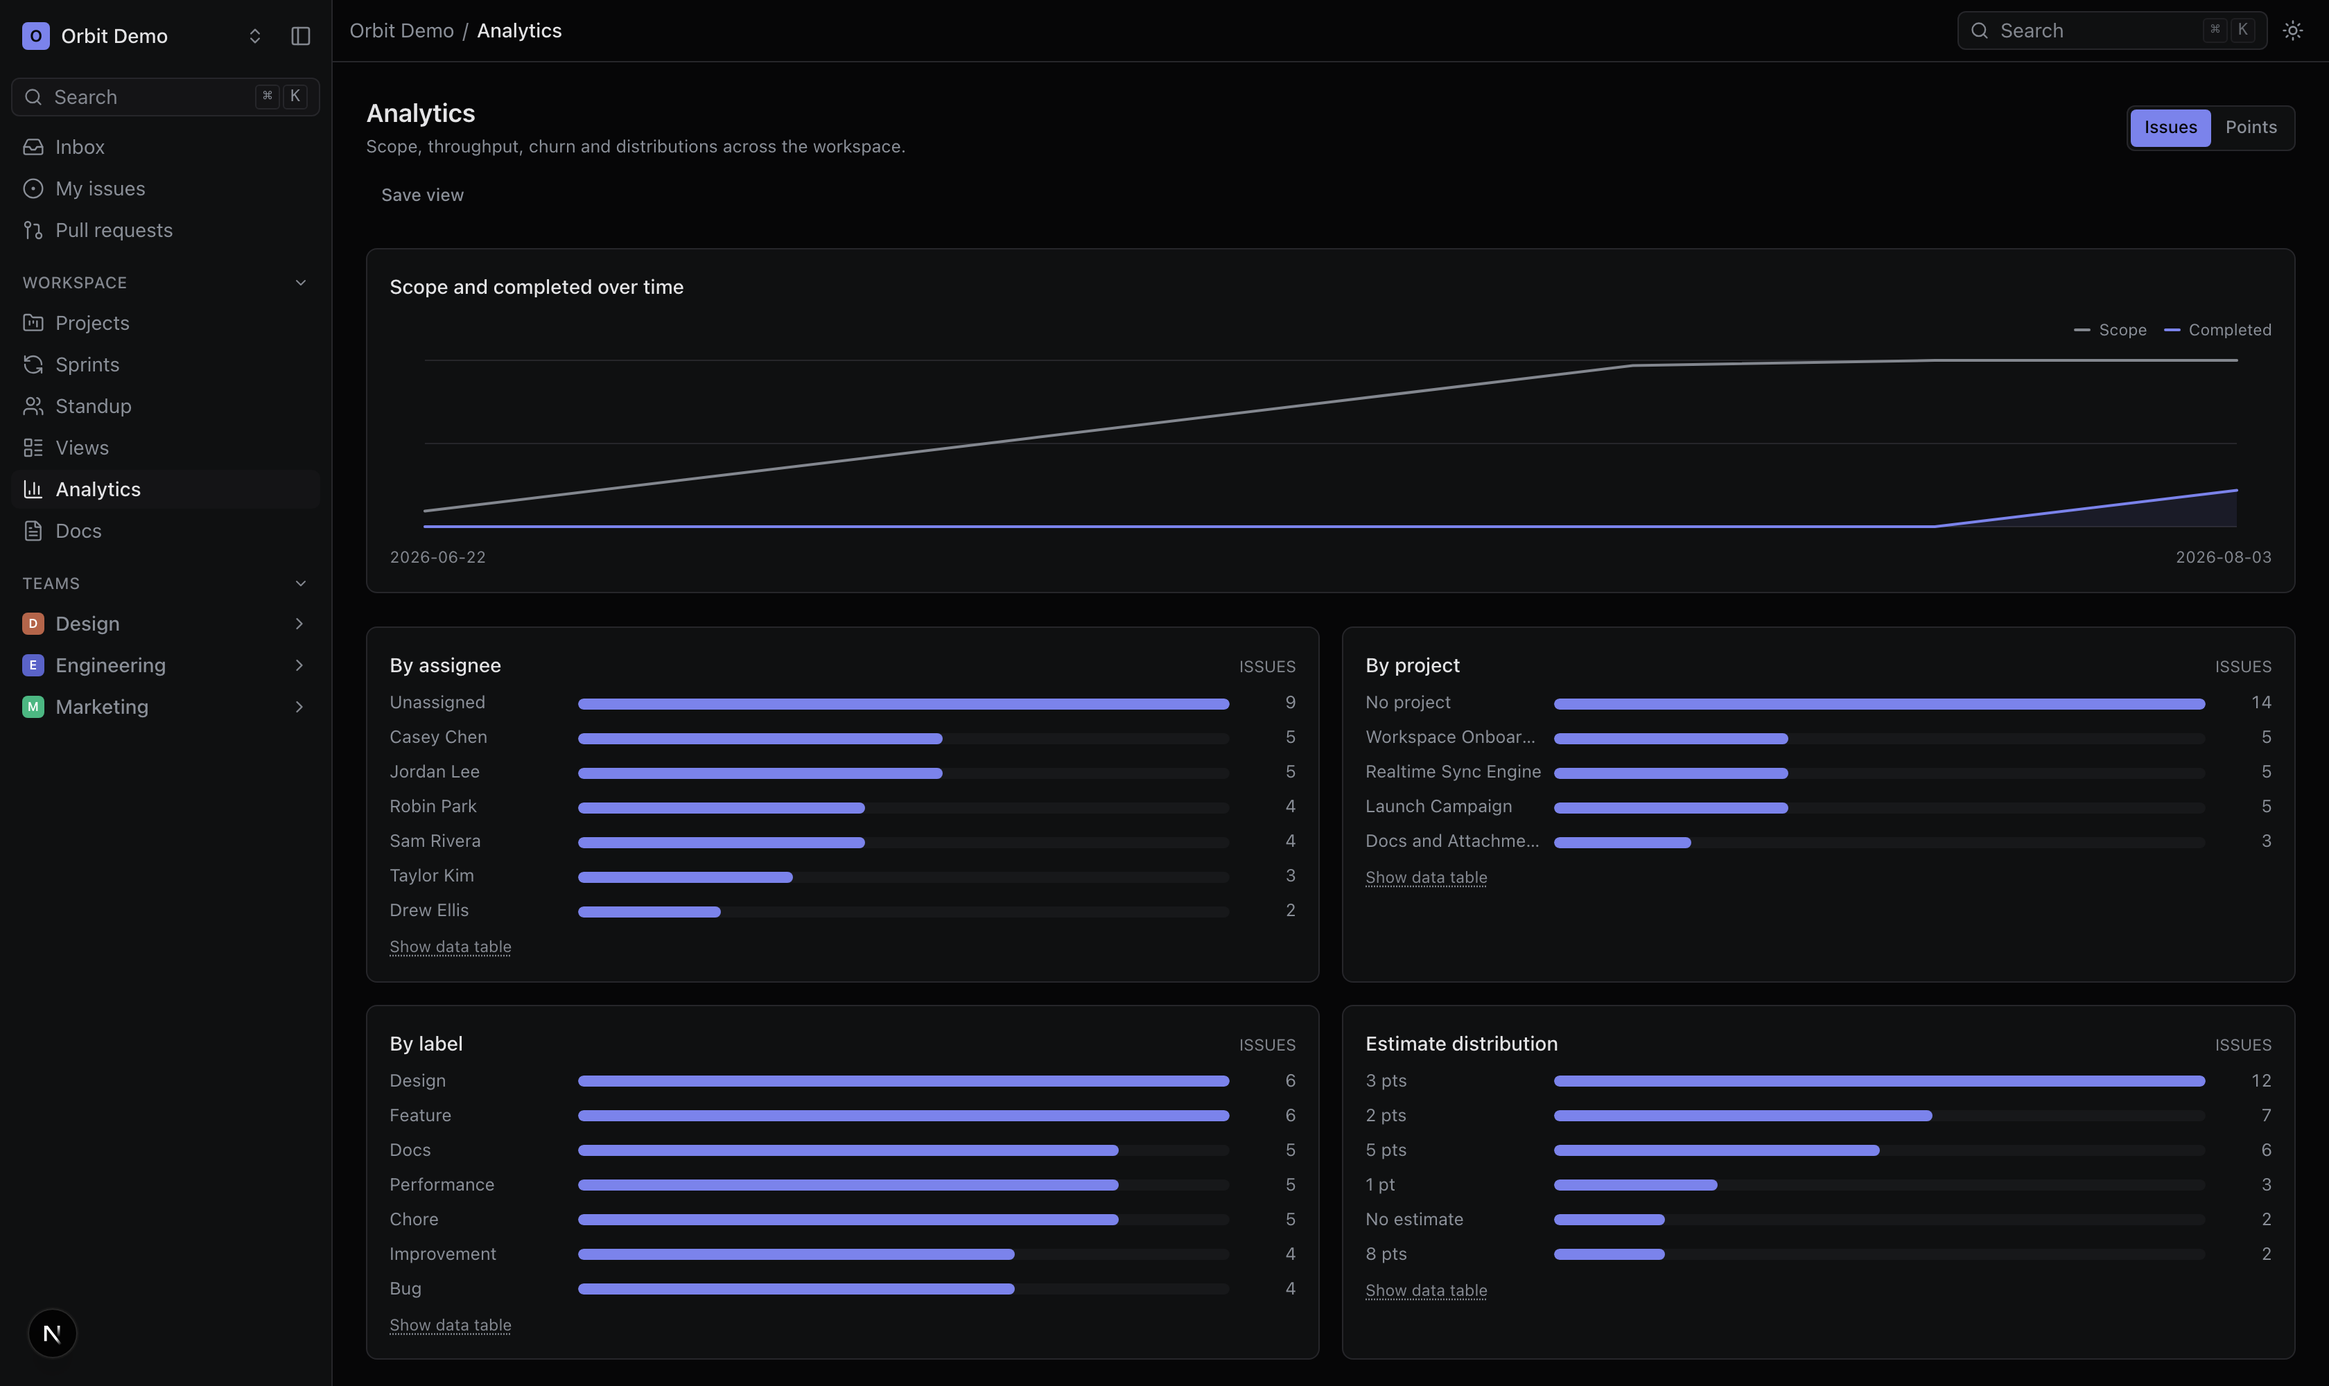
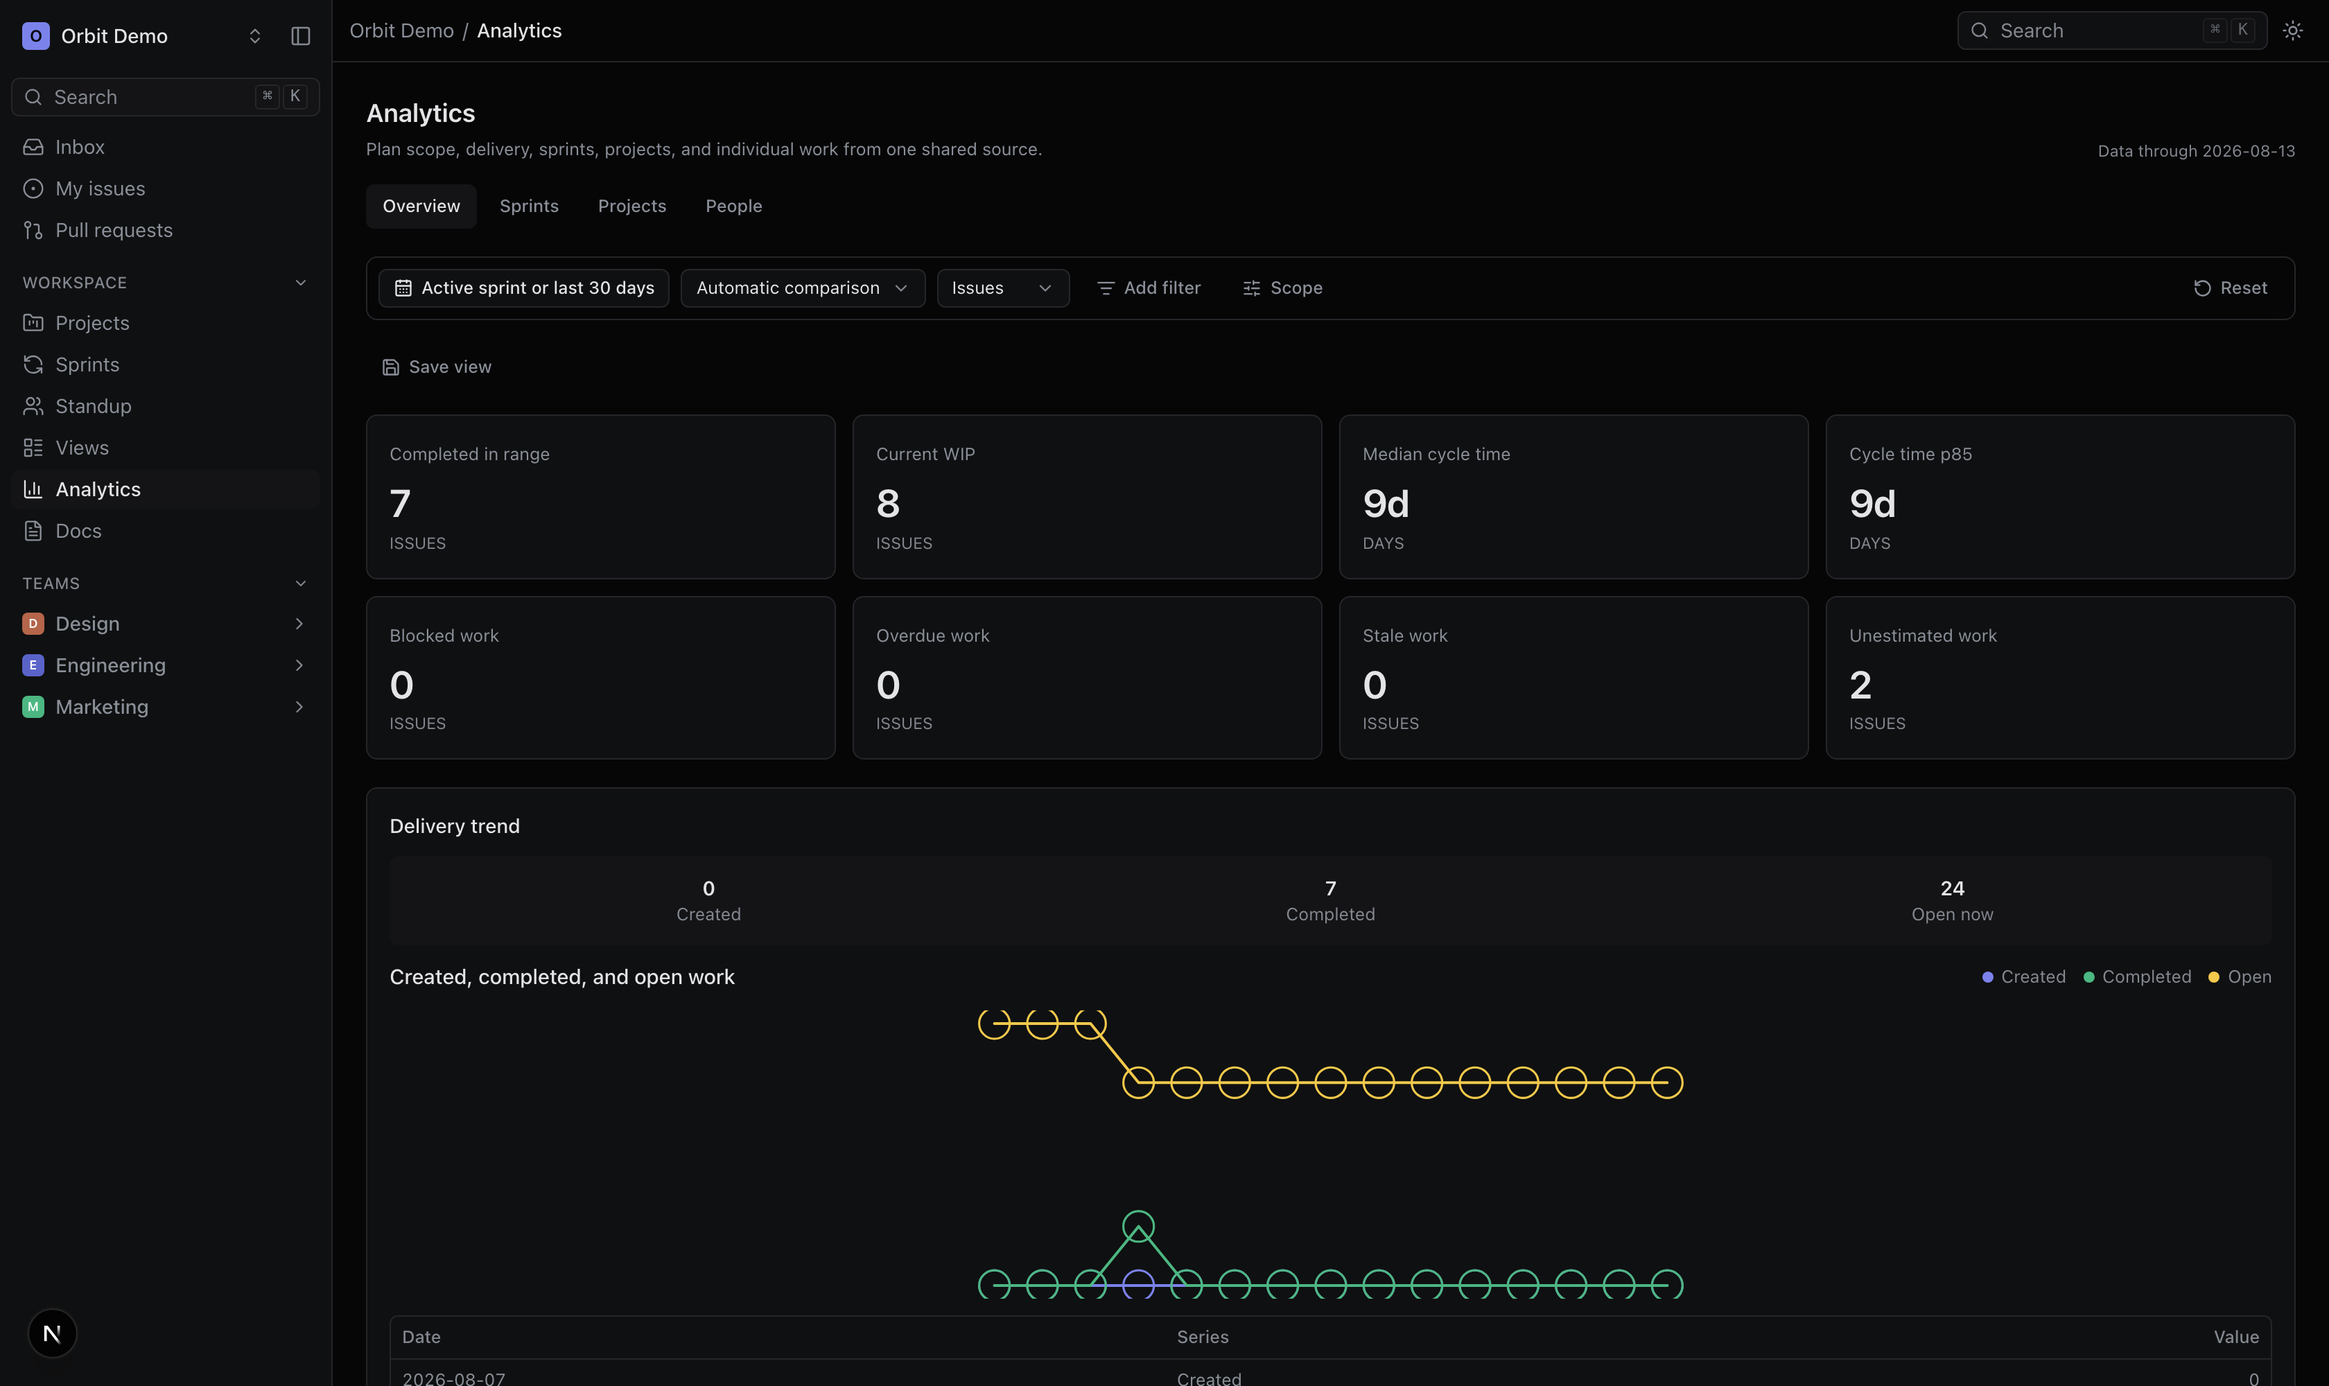
test(analytics): verify planning cockpit

diff --git a/apps/web/e2e/analytics.spec.ts b/apps/web/e2e/analytics.spec.ts
@@ -1,0 +1,155 @@
+import { type BrowserContext, expect, type Page, test } from '@playwright/test';
+import { z } from 'zod';
+import { stateIdByName, teamIdByKey } from './api.ts';
+import { BASE } from './base-url.ts';
+
+const cyclesSchema = z.object({
+  cycles: z.array(z.object({ id: z.string(), completedAt: z.string().nullable() })),
+});
+
+const issueSchema = z.object({ issue: z.object({ id: z.string() }) });
+
+const sprintSummarySchema = z.object({
+  current: z.object({ summary: z.object({ completed: z.number(), remaining: z.number() }) }),
+});
+
+async function json(page: Page, path: string, init?: RequestInit): Promise<unknown> {
+  return await page.evaluate(
+    async ({ url, options }) => {
+      const response = await fetch(url, options as RequestInit);
+      if (!response.ok) throw new Error(`${url} answered ${response.status}`);
+      return (await response.json()) as unknown;
+    },
+    { url: path, options: init ?? {} },
+  );
+}
+
+async function signIn(context: BrowserContext): Promise<Page> {
+  const page = await context.newPage();
+  await page.goto(`${BASE}/login`);
+  await page.getByTestId('dev-sign-in-alex@orbit.example').click();
+  await page.waitForURL(`${BASE}/my-issues`);
+  return page;
+}
+
+test('analytics is useful by default and preserves planning choices on reload', async ({
+  browser,
+}) => {
+  const context = await browser.newContext({ viewport: { width: 1600, height: 1000 } });
+  const page = await signIn(context);
+
+  await page.goto(`${BASE}/analytics`);
+  await expect(page.getByRole('heading', { name: 'Analytics' })).toBeVisible();
+  await expect(page.getByRole('tab', { name: 'Overview' })).toHaveAttribute(
+    'aria-selected',
+    'true',
+  );
+  await expect(page.getByLabel(/Reporting range/)).toContainText('Active sprint');
+
+  await page.getByLabel('Measure').click();
+  await page.getByRole('option', { name: 'Points' }).click();
+  await page.getByLabel(/Reporting range/).click();
+  await page.getByRole('button', { name: 'Last 90 days' }).click();
+  await page.getByRole('tab', { name: 'People' }).click();
+
+  await expect(page).toHaveURL(/lens=people/);
+  await expect(page).toHaveURL(/measure=points/);
+  await expect(page).toHaveURL(/range=last_90_days/);
+  await expect(page.getByText('My work')).toBeVisible();
+  await page.reload();
+  await expect(page.getByRole('tab', { name: 'People' })).toHaveAttribute('aria-selected', 'true');
+  await expect(page.getByLabel('Measure')).toContainText('Points');
+
+  await context.close();
+});
+
+test('analytics and the sprint page share sprint truth and expose exact hover values', async ({
+  browser,
+}) => {
+  const context = await browser.newContext({ viewport: { width: 1600, height: 1000 } });
+  const page = await signIn(context);
+
+  await page.goto(`${BASE}/sprints`);
+  const sprintName = (await page.getByTestId('sprint-name').first().textContent())?.trim();
+  if (sprintName === undefined || sprintName.length === 0) throw new Error('missing sprint name');
+
+  await page.goto(`${BASE}/analytics?lens=sprints`);
+  await expect(page.getByText(sprintName, { exact: true }).first()).toBeVisible();
+  await expect(page.locator('figcaption').getByText('Sprint burn down')).toBeVisible();
+  await expect(page.getByText('Flow time')).toBeVisible();
+  await expect(page.getByText(/Current issue-row creation to durable completion/)).toBeVisible();
+  await expect(page.getByText(/Current mutable startedAt column to completion/)).toBeVisible();
+
+  const point = page.locator('[data-testid^="plot-hit-"]').last();
+  await point.hover({ force: true });
+  await expect(page.getByRole('tooltip')).toBeVisible();
+
+  const chart = page.getByRole('application', { name: 'Sprint burn down' });
+  await chart.focus();
+  await page.keyboard.press('End');
+  await expect(page.getByRole('tooltip')).toBeVisible();
+
+  await context.close();
+});
+
+test('the active sprint burn changes when live work completes', async ({ browser }) => {
+  const context = await browser.newContext({ viewport: { width: 1600, height: 1000 } });
+  const page = await signIn(context);
+  const teamId = await teamIdByKey(page, 'ENG');
+  const todoId = await stateIdByName(page, teamId, 'Todo');
+  const doneId = await stateIdByName(page, teamId, 'Done');
+  const cycles = cyclesSchema.parse(await json(page, '/api/cycles')).cycles;
+  const activeCycle = cycles.find((cycle) => cycle.completedAt === null);
+  if (activeCycle === undefined) throw new Error('missing active sprint');
+  const created = issueSchema.parse(
+    await json(page, '/api/issues', {
+      method: 'POST',
+      headers: { 'content-type': 'application/json' },
+      body: JSON.stringify({
+        teamId,
+        title: `Live burn evidence ${Date.now()}`,
+        stateId: todoId,
+        cycleId: activeCycle.id,
+      }),
+    }),
+  ).issue;
+  const before = sprintSummarySchema.parse(await json(page, '/api/analytics/sprints')).current
+    .summary;
+
+  await json(page, `/api/issues/${created.id}`, {
+    method: 'PATCH',
+    headers: { 'content-type': 'application/json' },
+    body: JSON.stringify({ stateId: doneId }),
+  });
+  const after = sprintSummarySchema.parse(await json(page, '/api/analytics/sprints')).current
+    .summary;
+
+  expect(after.completed).toBe(before.completed + 1);
+  expect(after.remaining).toBe(before.remaining - 1);
+  await context.close();
+});
+
+test('a complete analytics view can be saved, pinned, and restored', async ({ browser }) => {
+  const context = await browser.newContext({ viewport: { width: 1600, height: 1000 } });
+  const page = await signIn(context);
+  const name = `Planning view ${Date.now()}`;
+
+  await page.goto(`${BASE}/analytics?lens=projects&measure=points&range=last_90_days`);
+  await page.getByRole('button', { name: 'Save view' }).click();
+  await page.getByLabel('Analytics view name').fill(name);
+  await page.getByLabel('Share with workspace').check();
+  await page.getByRole('button', { name: 'Save', exact: true }).click();
+  await expect(page.getByRole('button', { name, exact: true })).toBeVisible();
+  await page.getByLabel(`Pin ${name}`).click();
+  await expect(page.getByLabel(`Unpin ${name}`)).toBeVisible();
+
+  await page.goto(`${BASE}/analytics`);
+  await expect(page.getByRole('tab', { name: 'Projects' })).toHaveAttribute(
+    'aria-selected',
+    'true',
+  );
+  await expect(page.getByLabel('Measure')).toContainText('Points');
+  await expect(page.getByLabel(/Reporting range/)).toContainText('Last 90 days');
+
+  await context.close();
+});

diff --git a/apps/web/scripts/capture-screenshots.ts b/apps/web/scripts/capture-screenshots.ts
@@ -7,6 +7,12 @@ const USER = process.env['ORBIT_SHOTS_USER'] ?? 'alex@orbit.example';
 const REPO_ROOT = resolve(import.meta.dirname, '../../..');
 const OUT = resolve(REPO_ROOT, 'docs/assets/screenshots');
 const RELATIVE_OUT = 'docs/assets/screenshots';
+const SHOT_FILTER = new Set(
+  (process.env['ORBIT_SHOTS_FILTER'] ?? '')
+    .split(',')
+    .map((value) => value.trim())
+    .filter((value) => value.length > 0),
+);
 const WIDTH = 1680;
 const HEIGHT = 1000;
 const THEMES = ['light', 'dark'] as const;
@@ -69,6 +75,25 @@ async function firstProjectSlug(page: Page): Promise<string | null> {
   return first['slug'];
 }
 
+async function firstPersonWithWork(page: Page): Promise<string | null> {
+  const body = await readJson(page, '/api/analytics/people?lens=people');
+  if (!(isRecord(body) && Array.isArray(body['people']))) return null;
+  for (const entry of body['people']) {
+    if (!(isRecord(entry) && isRecord(entry['person']))) continue;
+    const assignments = entry['currentAssignments'];
+    const completions = entry['completedIssues'];
+    const id = entry['person']['id'];
+    if (
+      typeof id === 'string' &&
+      ((typeof assignments === 'number' && assignments > 0) ||
+        (typeof completions === 'number' && completions > 0))
+    ) {
+      return id;
+    }
+  }
+  return null;
+}
+
 async function firstIssueIdentifier(page: Page, teamKey: string): Promise<string | null> {
   const body = await readJson(page, `/api/issues?teamKey=${teamKey}&limit=20`);
   if (!(isRecord(body) && Array.isArray(body['issues']))) return null;
@@ -80,12 +105,52 @@ async function firstIssueIdentifier(page: Page, teamKey: string): Promise<string
 }
 
 async function buildShots(page: Page): Promise<Shot[]> {
+  const personId = await firstPersonWithWork(page);
   const shots: Shot[] = [
     { name: 'board', path: '/team/ENG/board', caption: 'Board' },
     { name: 'issues', path: '/team/ENG/issues', caption: 'Issue list' },
     { name: 'sprints', path: '/sprints', caption: 'Sprints' },
     { name: 'standup', path: '/standup', caption: 'Standup' },
     { name: 'analytics', path: '/analytics', caption: 'Analytics', settleMs: 1800 },
+    {
+      name: 'analytics-sprints',
+      path: '/analytics?lens=sprints',
+      caption: 'Analytics sprint planning',
+      settleMs: 1800,
+    },
+    {
+      name: 'analytics-people',
+      path:
+        personId === null
+          ? '/analytics?lens=people'
+          : `/analytics?lens=people&personId=${personId}`,
+      caption: 'Analytics personal planning',
+      settleMs: 1800,
+    },
+    {
+      name: 'analytics-hover',
+      path: '/analytics?lens=sprints',
+      caption: 'Analytics exact chart value',
+      settleMs: 1800,
+      act: async (target) => {
+        const point = target.locator('[data-testid^="plot-hit-"]').last();
+        await point.hover({ force: true });
+        await target.getByRole('tooltip').waitFor();
+      },
+    },
+    {
+      name: 'analytics-filters',
+      path: '/analytics',
+      caption: 'Analytics advanced filters',
+      settleMs: 1800,
+      act: async (target) => {
+        await target.getByRole('button', { name: 'Add filter' }).click();
+        await target.getByTestId('filter-field-project').click();
+        await target.locator('[data-testid^="filter-value-"]').first().click();
+        await target.keyboard.press('Escape');
+        await target.getByRole('button', { name: 'Scope' }).click();
+      },
+    },
     { name: 'projects', path: '/projects', caption: 'Projects' },
     { name: 'inbox', path: '/inbox', caption: 'Inbox' },
     { name: 'my-issues', path: '/my-issues', caption: 'My issues' },
@@ -182,7 +247,9 @@ async function main(): Promise<void> {
   const setupContext = await openContext(browser, 'light');
   const setupPage = await setupContext.newPage();
   await signIn(setupPage);
-  const shots = await buildShots(setupPage);
+  const allShots = await buildShots(setupPage);
+  const shots =
+    SHOT_FILTER.size === 0 ? allShots : allShots.filter((shot) => SHOT_FILTER.has(shot.name));
   await setupContext.close();
 
   console.log(`Capturing ${shots.length} screens in ${THEMES.length} themes from ${BASE}`);

diff --git a/.superpowers/sdd/2026-08-11-analytics-planning-cockpit/task-17-report.md b/.superpowers/sdd/2026-08-11-analytics-planning-cockpit/task-17-report.md
@@ -1,0 +1,42 @@
+# Task 17 report
+
+## Outcome
+
+The analytics planning cockpit is verified end to end against a disposable current-schema database. The zero-configuration Analytics page, URL persistence, exact mouse and keyboard chart evidence, shared sprint truth, live burndown movement, and complete saved-view restoration all have browser coverage. The Sprint page Insights tab consumes the same sprint analytics service as the Analytics sprint lens.
+
+The screenshot harness now captures Overview, Sprint, People, advanced-filter, and exact-hover states in both light and dark themes. The People capture selects a person with visible work so the review artifact shows assignments, completion throughput, work in progress, cycle time, lead time, WIP age, and personal sprint burn rather than an empty profile.
+
+The branch includes the latest `origin/main` through a clean merge.
+
+## Browser evidence
+
+- Analytics loads a useful Overview with Active sprint selected on a clean URL.
+- Lens, measure, and reporting-range changes survive a browser reload.
+- Analytics and Sprint Insights show the same selected sprint and burn series.
+- Mouse hover and keyboard focus expose exact chart values through an accessible tooltip.
+- Completing a real active-sprint issue increases completed work by one and reduces remaining work by one through `/api/analytics/sprints`.
+- A Projects, Points, Last 90 days query can be saved, shared, pinned, and restored from a clean Analytics URL.
+- The four browser scenarios passed in the dedicated Playwright database.
+
+## Formula semantics
+
+- Lead time is the current issue-row `createdAt` to durable `completedAt` interval. Missing and negative intervals are excluded. Deleted issue rows cannot contribute to this current-row metric.
+- Cycle time is the current mutable `startedAt` to durable completion interval. Completed sprint history labels this as reconstructed from the current column because close outcomes do not freeze the first-start timestamp.
+- People percentiles use valid completions attributed to the person at completion. WIP age is the current state-entry timestamp to the resolved data-through timestamp.
+- Sprint scope and churn use durable membership intervals. Active completion is derived through the reporting day, so it moves between scheduled snapshots. Completed sprints prefer frozen close outcomes and final snapshots.
+- Legacy observed sprint membership can honestly report no planned scope when captured start facts do not exist. Coverage metadata exposes that limitation rather than inventing a committed baseline.
+
+## Verification
+
+- Production build passed: Next.js compiled, typechecked, generated 103 pages, and produced the standalone bundle.
+- Database drift check passed against the disposable current-schema database.
+- Full Core passed after the latest `main` merge: 916 tests, 0 failures, 2,528 assertions across 64 files.
+- Full Web passed: 2,031 tests, 0 failures, 5,096 assertions across 257 files.
+- The final root verification passed lint, comment policy, source-byte policy, Bun-import policy, dependency checks, and every package typecheck.
+- The root parallel test process encountered the repository-known `packages/db` catchup cleanup-hook timeout at exactly 30 seconds. The affected file passed alone immediately afterward: 10 tests, 0 failures, 18 assertions in 321 ms.
+- Earlier task gates on this final feature chain include Web 2,028/2,028 before the latest `main` merge; the final totals above include the merged tests.
+- Representative query plans recorded during implementation remained bounded: sprint membership 0.321 ms, overview distributions 0.377 ms, project metrics 0.330 ms, and people metrics 0.395 ms on the seeded fixtures.
+
+## Review artifacts
+
+Twelve committed images cover Analytics Overview, Analytics Sprint, Analytics People, exact chart hover, advanced filters, and the Sprint page in both themes. The screenshots use a 1680 by 1000 viewport, device scale factor 2, reduced motion, and deterministic seeded data.
